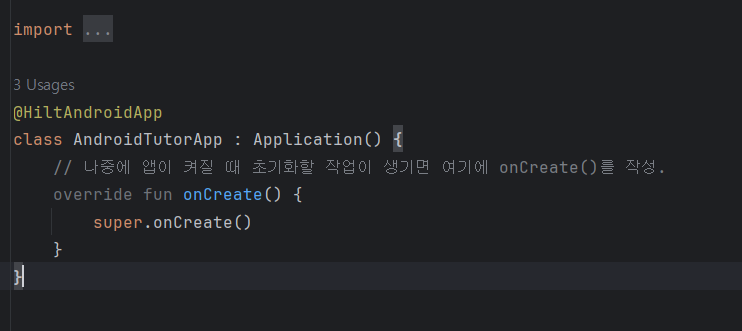
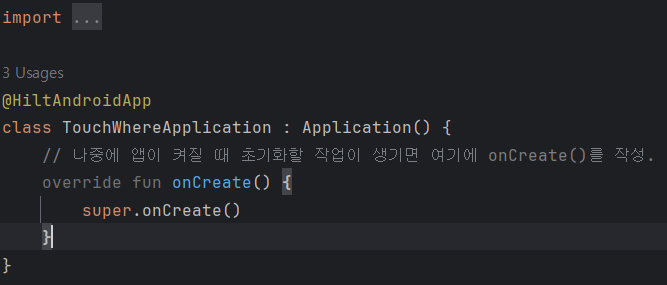
update some posts

diff --git a/_posts/2026-03-31-project-AndroidTutor(4).md b/_posts/2026-03-31-project-AndroidTutor(4).md
@@ -6,11 +6,13 @@ categories: [ project, android, app, DI, Hilt ]
 image: assets/images/prj-androidtutor-basicmodel.jpg
 ---
 
-# 버전 카탈로그(libs.versions.toml)
+요약: 실제 앱에 hilt 적용 & 결과
+
+## 버전 카탈로그(libs.versions.toml)
 
 [Di-Hilt 문서](https://developer.android.com/training/dependency-injection/hilt-android?hl=ko&_gl=1*49kihh*_up*MQ..*_ga*MTU4ODYxOTE0LjE3NzQ4NjUwNDc.*_ga_6HH9YJMN9M*czE3NzQ4NjUwNDYkbzEkZzAkdDE3NzQ4NjUwNDYkajYwJGwwJGg0NDQyMzYzMjU.)와 유콩씨가 준 자료를 가지고 Hilt를 하나하나 적용해볼 것이다.
 
-## libs.versions.toml 파일에 대해서
+### libs.versions.toml 파일에 대해서
 
 사실 그동안은 gradle파일에 버전을 일일히 명시하곤 했었는데, 버전관리를 간편하게 하기 위해 `libs.versions.toml`파일을 사용하는게 대세라고 한다. 이를테면,
 ```
@@ -19,7 +21,9 @@ id("com.google.dagger.hilt.android") version "2.59.2" apply false
 이렇게, gradle (project level)에 써뒀었다. 아무튼 나도 대세에 따르기로 했다. (흐름을 거슬러선 안돼! 장자의 말이다.)
 
 그럼 libs.versions.toml 파일은 정확히 뭘까? 제미나이가 자세하게도 알려줘서 일단 복붙을 하겠다.
+
 ---
+
 안드로이드 개발에서 **버전 카탈로그(Version Catalog)**는 프로젝트에서 사용하는 라이브러리와 플러그인의 버전을 **한 곳(중앙)에서 관리하는 방식**을 말합니다.
 
 예전에는 각 모듈의 `build.gradle` 파일마다 버전을 일일이 적어주었지만, 이제는 `libs.versions.toml`이라는 설정 파일 하나로 통합하여 관리하는 것이 표준이 되었습니다.
@@ -31,8 +35,10 @@ id("com.google.dagger.hilt.android") version "2.59.2" apply false
 - [libraries]: 실제 라이브러리 경로와 위에서 정의한 버전을 연결합니다.
 - [plugins]: Gradle 플러그인들을 정의합니다.
 
-##### Step 1: `libs.versions.toml` 수정
+Step 1: `libs.versions.toml` 수정
+
 ```toml
+
 [versions]
 # 1. 버전 정의
 hilt = "2.51.1" 
@@ -45,20 +51,26 @@ hilt-compiler = { group = "com.google.dagger", name = "hilt-android-compiler", v
 [plugins]
 # 3. 플러그인 정의
 hilt-gradle = { id = "com.google.dagger.hilt.android", version.ref = "hilt" }
+
 ```
 
-##### Step 2: `build.gradle`에서 사용
+Step 2: `build.gradle`에서 사용
+
 이제 실제 Gradle 파일에서는 긴 버전 번호 대신 설정한 **별명(alias)**을 사용하여 간결하게 불러옵니다.
 
 **[Project 수준 build.gradle]**
+
 ```kotlin
+
 plugins {
     alias(libs.plugins.hilt.gradle) apply false
 }
 ```
 
 **[Module(app) 수준 build.gradle]**
+
 ```kotlin
+
 plugins {
     alias(libs.plugins.hilt.gradle)
 }
@@ -67,9 +79,10 @@ dependencies {
     implementation(libs.hilt.android)
     kapt(libs.hilt.compiler)
 }
+
 ```
 
-##### 3. 버전 카탈로그를 쓰면 무엇이 좋나요?
+Q) 버전 카탈로그를 쓰면 무엇이 좋나요?
 
 | 장점 | 설명 |
 | :--- | :--- |
@@ -91,7 +104,9 @@ Hilt 특성상, 둘 다 필요하기 때문에, 둘 다 적는다고 한다.
 두 번째 질문도 있다. ".toml파일 형식이란?" 아무래도 나한테는 생소했는데, yaml이나 json처럼 구글이 선택한 설정 파일 만들 형식(포맷)이라고 한다.
 
 계속해서 build.gradle.kts파일을 프로젝트 레벨부터 앱 레벨까지 모두 수정해주었다.
+
 ```kotlin
+
 //프로젝트 레벨
 plugins{
     ...
@@ -109,12 +124,55 @@ dependencies{
     implementation(libs.hilt.android)
     ksp(libs.hilt.compiler)
 }
+
 ```
-다행히 sync를 누르고 나니 별다른 gradle 에러는 없었다. 계속해서, 공식문서에서는 Application을 만들어야 된다고 써있다. 알아보니 Hilt가 DI를 하기 위해선, 해당 앱의 시작점부터 파악하고 있어야 한다. 그리고 그 시작점이 Application 클래스를 상속받는 클래스이다. 별도로 파일을 만들어서 Application을 상속받았다.
+다행히 sync를 누르고 나니 별다른 gradle 에러는 없었다. 
+
+## @HiltAndroidApp
+
+계속해서, 공식문서에서는 Application을 만들어야 된다고 써있다. 알아보니 Hilt가 DI를 하기 위해선, 해당 앱의 시작점부터 파악하고 있어야 한다. 그리고 그 시작점이 Application 클래스를 상속받는 클래스이다. 
+> Application은 앱 프로세스가 올라올 때 가장 먼저 instance화 되는 클래스이다. 원래는 별도로 클래스를 정의하지 않아도 되지만, hilt에서는 hilt의 코드 생성을 시작하는 지점이라 아래와 같이 @HiltAndroidApp annotation과 함께 클래스를 (정확히 여기서는 Application을 상속받았으니 subclass) 선언해야 한다.
+
+별도로 파일을 만들어서 Application을 상속받은 클래스를 선언했다.
 
 ![application상속받기](/assets/images/forPost/AndroidTutor(4)/makingapplication.png)
 
+이때 적은 클래스 이름([공식 문서에서는 'specifying the fully qualified name'이라고 표현한다.](https://developer.android.com/reference/kotlin/android/app/Application?_gl=1*7ra5yf*_up*MQ..*_ga*NzU0MjQyMzkyLjE3ODM0OTQ3MTg.*_ga_6HH9YJMN9M*czE3ODM0OTQ3MTckbzEkZzAkdDE3ODM0OTQ3MTckajYwJGwwJGg1MzkzNTM3MDA.))은 그대로 AndroidManifest.xml에 들어가야 한다. 아래와 같다.
 
+```kotlin
 
+<application
+        android:name=".TouchWhereApplication"
+        android:allowBackup="true"
 
-...To Be Continue...
+        ...
+
+    <service
+    ...
+    />
+
+```
+
+## @AndroidEntryPoint
+
+이제 DI(Dpendency Injection)하고 싶은 클래스에 `@AndroidEntryPoint` annotation을 달아준다.
+
+공식 문서에서는 아래와 같이 적혀있다.
+
+```
+
+Application 클래스에 Hilt를 설정하고 애플리케이션 수준 구성요소를 사용할 수 있게 되면 Hilt는 @AndroidEntryPoint 주석이 있는 다른 Android 클래스에 종속 항목(Dependency)을 제공할 수 있습니다.
+
+```
+
+보니까 그렇다고 종속성이 필요한 클래스에만 달아주는 것도 꼭 아니다. 꼭 필요한 경우들이 몇 가지 있다.
+
+여기서 의문이 하나 생긴다. 그렇다면 @AndroidEntryPoint는 어디에 달아줘야 하나?
+
+![내 앱에서의 dependency graph](../assets/images/forPost/AndroidTutor(4)/TouchWhereApplication.svg)
+
+![내 앱에서의 dependency graph](../assets/images/forPost/AndroidTutor(4)/digraph1.png)
+
+![내 앱에서의 dependency graph](../assets/images/forPost/AndroidTutor(4)/digraph2.png)
+
+(HiltBluePrint로 그래프를 그렸다.)

diff --git a/_posts/2026-03-11-project-AndroidTutor.md b/_posts/2026-03-11-project-AndroidTutor.md
@@ -1,50 +1,19 @@
 ---
 layout: post
-title:  "[project]AndroidTutor(1) 벡터 임베딩과 RAG"
+title:  "[project]AndroidTutor(1) 앱 프로젝트 요약"
 author: kau-newbie
 categories: [ project, android, app, ai ]
 image: assets/images/prj-androidtutor-basicmodel.jpg
 ---
 
-# 벡터 임베딩과 RAG 알아보기
+요약: GUI agent를 응용한 스마트폰 화면 네비게이션 앱. (배리어 프리앱)
+
+# 스마트폰 취약 계층을 위한 안내 앱 만들기 프로젝트
+
+학교 캡스톤 디자인 수업에서 프로젝트를 하나 시작했다.
+
+주변 어른들 중 스마트폰을 어려워하시는 분들이 많아 LLM으로 도와주는 앱을 만들고자 했다.
 
 
-앱 개발 도중에 LLM이 처리할 입력을 줄일 방법이 필요했다. 지금 LLM 서버로 보내는 프롬프트의 길이는 길어도 너무 길다. 처음 생각한 방법은, RAG model의 embedding 방식을 따라하는 것이다.
 
-먼저, ui 스냅샷을 embedding model이 벡터공간으로 변환한다. 그다음으로, 사용자의 프롬프트를(query) 벡터로 변환 후, 비교해 유사한 '관련 정보'를 가져오는 것이다. 
-
-그렇게 가져온 '관련 정보'는 기존에 넘겨주던 '전체 ui 스냅샷'에 비해 훨씬 적은양일 것이다.
-
-물론 문제가 있었다. 우선, 언어문제가 있었다. ui 스냅샷을 로그로 분석해봤을 때, ui component의 id나 text(일종의 주석)부분은 영어로 작성됐고, 사용자의 입력은 한글일 것이다. 예를 들어, 사용자는 "카카오톡을 실행하고 싶어."라고 얘기했는데, 넘겨받은 ui 스냅샷에서는 ui id로 'kakaotalk'라고 영어로 써있어서 벡터 자체가 유사하다고 보기 어려운 경우이다.
-
-두번째로는, 글자의 유사한 정도로만 찾을 때 발생하는 일들이다. 예를 들어, 극단적으로 "카카오톡 말고 다른 앱을 사용하고 싶어."라고 사용자의 입력이 들어왔는데, 넘겨받은 ui 스냅샷에서는 kakaotalk 이라는 ui id가 있었다. 그렇다면 LLM에게 넘길 '가공된 context'로는 kakaotalk이라는 id를 가진 ui의 근방이지 않을까?
-
-세번째로는, chunk라는 단위의 크기와, 그 크기로 자를 지점의 문제이다. 이 부분에 대해선 관련 사이트에 여러 생각해볼 지점들을 찾을 수 있었다.
-
-사이트는 다음과 같다. (https://www.pinecone.io/learn/chunking-strategies/)
-
-```
-데이터 청킹 전략 수립을 위한 핵심 고려사항
-
-1. 어떤 종류의 데이터를 분할(Chunking)하고 있나요?
-기사나 책처럼 긴 문서인가요, 아니면 트윗, 상품 설명, 채팅 메시지처럼 짧은 콘텐츠인가요? 짧은 문서는 아예 분할할 필요가 없을 수도 있지만, 긴 문서는 소제목이나 장(Chapter) 같은 특정 구조를 가지고 있을 확률이 높으며, 이러한 구조가 청킹 전략의 기준이 됩니다.
-
---> ui 스냅샷은 현재 아주 길다. 하지만 후에 간과하고 있던 점을 발견하게 돼 굉장히 줄일 수 있게 됐다. 짧은 콘텐츠라고 볼 수 있겠다. 하지만 동시에 트리구조상, 여러 분할 지점이 있다.
-
-2. 어떤 임베딩 모델을 사용하고 있나요?
-임베딩 모델마다 정보를 수용할 수 있는 용량이 다르며, 특히 코드, 금융, 의료, 법률 같은 전문 도메인에서는 그 차이가 더 두드러집니다. 또한 모델의 학습 방식은 실제 성능에 큰 영향을 미칩니다. 도메인에 적합한 모델을 선택한 후에는 해당 모델이 학습 시 사용했던 문서 유형과 일치하도록 청킹 전략을 조정해야 합니다.
-
---> 아직 결정하지 못했다. 하지만 최대한 모바일에서도 돌아갈 가벼운 모델을 원하고 있다. 
-
-3. 사용자 쿼리(질문)의 길이와 복잡도는 어느 정도일 것으로 예상하시나요?
-사용자의 질문이 짧고 구체적일까요, 아니면 길고 복잡할까요? 임베딩된 쿼리와 임베딩된 데이터 조각(Chunk) 사이의 연관성을 높이려면, 예상되는 질문의 형태에 맞춰 데이터 분할 방식을 결정해야 합니다.
-
---> 짧다. 단순히 구체적일 수도 있고, 복잡할 수도 있다. 예상되는 질문의 형식을 고려해야하는데,
-
-4. 검색된 결과가 애플리케이션 내에서 어떻게 활용되나요?
-예를 들어 시맨틱 검색, 질의응답(QA), 검색 증강 생성(RAG), 또는 에이전트 기반 워크플로우 중 어디에 사용되나요? 검색 결과에서 사람이 검토하기에 적절한 정보의 양과, LLM(거대언어모델)이 답변을 생성하는 데 필요한 정보의 양은 다를 수 있습니다. 이러한 최종 사용자(인간 혹은 모델)가 누구냐에 따라 벡터 데이터베이스 내에서 데이터를 어떻게 표현할지가 결정됩니다.
-
---> 단순히 비교판단 문제였다. 질의 응답에 가까워 보인다.
-```
-
-두번째 문제 경우에는 관계를 나타내는 '그래프'로 어떻게 해결이 가능하지 않을까? 넘겨줄 chunk들을(원본) 그래프형태로 저장하는 것이다.
+![기본 메인로직](../assets/images/prj-androidtutor-basicmodel.jpg)

diff --git a/_posts/2026-05-13-ns3-simulator.md b/_posts/2026-05-13-ns3-simulator.md
@@ -1,10 +1,4 @@
----
-layout: post
-title:  "ns-3 simulator를 알아보기"
-author: kau-newbie
-categories: [ Network, Data, transfer, simulator, ns3 ]
-image: assets/images/mainpicture.png
----
+
 
 
 ## 개요

diff --git a/_posts/2026-03-30-project-AndroidTutor(2).md b/_posts/2026-03-30-project-AndroidTutor(2).md
@@ -6,6 +6,10 @@ categories: [ project, android, app, DI, Hilt ]
 image: assets/images/prj-androidtutor-basicmodel.jpg
 ---
 
+
+요약: hilt를 위한 사전지식(DI, hilt)
+
+
 # DI란?
 
 여러모로 기워붙이며 기능을 추가한지 어언 몇 달째...,

diff --git a/_posts/2026-04-01-AndroidSys.md b/_posts/2026-04-01-AndroidSys.md
@@ -1,10 +1,12 @@
 ---
 layout: post
-title:  "[Android]view filtering 기능에 대해서"
+title:  "[Android]anti-tab jacking 기능(View-filtering)에 대해서"
 author: kau-newbie
 categories: [ android, os, view, security]
 image: assets/images/forPost/android_logo.png
 ---
+
+요약: 공식문서의 tab jacking 문제로 인한 터치가 안 먹는 문제
 
 # Android OS system
 

diff --git a/_posts/2026-04-06-project-AndroidTutor(6).md b/_posts/2026-04-06-project-AndroidTutor(6).md
@@ -6,6 +6,8 @@ categories: [ android, os, project]
 image: assets/images/prj-androidtutor-basicmodel.jpg
 ---
 
+요약: 같은 종류(ui 종류, eventType 등)의 ui 이벤트가 반복 발생 -> 원형 해시 큐로 중복검사
+
 # 같은 리소스에서 반복 발생하는 접근성 이벤트 
 
 ## 필터링 로직 문제 (삼성 launcher v.s. android launcher)
@@ -24,6 +26,7 @@ image: assets/images/prj-androidtutor-basicmodel.jpg
 - 왜냐하면 현재 다음과 같은 코드로 같은 view id에서 온 이벤트는 일정시간동안 필터링하고 있기 때문이다.
 
 ```kotlin
+
 // 특정 resourceID별로 마지막 처리 시간을 저장 (ID : Timestamp)
     // 고정된 크기를 가진 원형 버퍼 형태의 맵
     private val viewEventTimestamps = object : LinkedHashMap<String, Long>(MAX_ENTRIES, 0.75f, true) {
@@ -44,6 +47,7 @@ image: assets/images/prj-androidtutor-basicmodel.jpg
         }
         // 2. 통과했다면 현재 시간 업데이트
         viewEventTimestamps[resourceId] = currentTime
+
 ```
 
 코드에 따르면 TYPE_WINDOW_CONTENT_CHANGED이고, 체크를 사용자가 하고 있는 게 아니라면, view의 id (viewIdResourcName)를 비교해 필터링한다.

diff --git a/_posts/2026-04-20-hadoop(3).md b/_posts/2026-04-20-hadoop(3).md
@@ -1,10 +1,12 @@
 ---
 layout: post
-title:  "[hadoop] Haddop-Distributed-File-System(HDFS) 예시"
+title:  "[hadoop] Map-Reduce 예시"
 author: kau-newbie
 categories: [  filesystem, distributed, dfs, hadoop ]
 image: assets/images/forPost/hadoop_templogo.png
 ---
+
+요약: haddop examples
 
 # Hadoop Example - WordCount
 

diff --git a/_posts/2026-03-11-size_t.md b/_posts/2026-03-11-size_t.md
@@ -6,6 +6,8 @@ categories: [ c, memory, system ]
 image: assets/images/forPost/c_logo.png
 ---
 
+요약: unsigned integer와 size_t의 활용
+
 # unsigned integer과 size_t
 
 ## iterator로서의 unsigned v.s. size_t

diff --git a/_posts/2026-03-31-project-AndroidTutor(3).md b/_posts/2026-03-31-project-AndroidTutor(3).md
@@ -6,6 +6,8 @@ categories: [ project, android, app, DI, Hilt ]
 image: assets/images/prj-androidtutor-basicmodel.jpg
 ---
 
+요약: hilt를 위한 종속성 해결 (AGP, kapt, ksp)
+
 # AGP와 Ksp 문제
 
 [Di-Hilt 문서](https://developer.android.com/training/dependency-injection/hilt-android?hl=ko&_gl=1*49kihh*_up*MQ..*_ga*MTU4ODYxOTE0LjE3NzQ4NjUwNDc.*_ga_6HH9YJMN9M*czE3NzQ4NjUwNDYkbzEkZzAkdDE3NzQ4NjUwNDYkajYwJGwwJGg0NDQyMzYzMjU.)를 참고하면서 분명 잘 따라가고 있었는데, 문제가 생겼다.

diff --git a/_posts/2026-04-04-project-AndroidTutor(5).md b/_posts/2026-04-04-project-AndroidTutor(5).md
@@ -6,6 +6,8 @@ categories: [ android, os, coroutine, project]
 image: assets/images/prj-androidtutor-basicmodel.jpg
 ---
 
+요약: collect{}와 collectLatest{}의 차이로 인한 직전(아직 실행 중) 코루틴 취소 문제 해결
+
 # Android OS system
 
 ## 코루틴이 꼬이는 문제 및 flag 변수의 race condition

diff --git a/_posts/2026-04-13-floating-point.md b/_posts/2026-04-13-floating-point.md
@@ -6,6 +6,8 @@ categories: [ c, memory, system ]
 image: assets/images/forPost/c_logo.png
 ---
 
+요약: c에서 floating point 고려사항
+
 ## float 
 
 floating point(부동 소수점)은 IEEE에서 표준으로 비트 표기법을 정해놓았다.

diff --git a/_posts/2026-04-13-signed-shift.md b/_posts/2026-04-13-signed-shift.md
@@ -6,6 +6,8 @@ categories: [ c, memory, system ]
 image: assets/images/forPost/c_logo.png
 ---
 
+요약: c에서 bit shift의 고려사항
+
 # signed 와 shift(bits shift)연산
 
 비트 연산시 꽤 재밌는 일이 많은데, 대부분 메모리 공간 크기 문제와 관련있다.